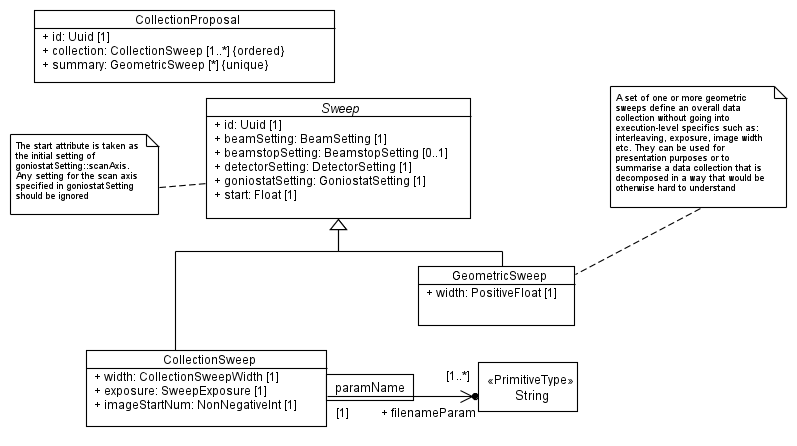
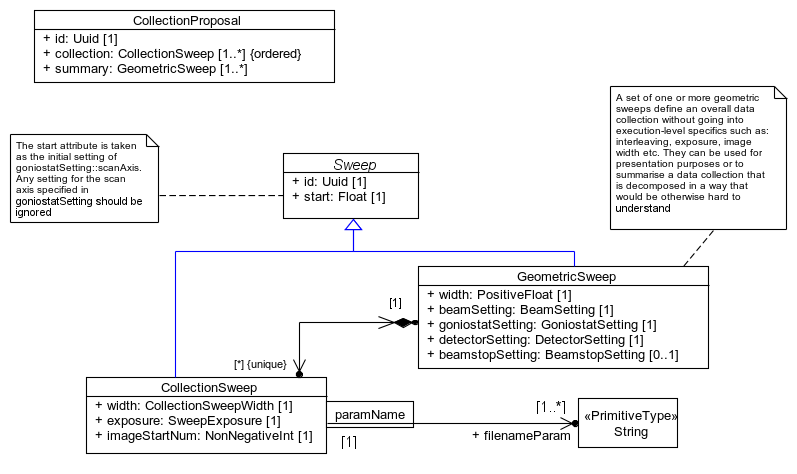
Normalise instrument settings in GeometricSweep
- CollectionSweep now does not contain the instrumental settings, but
refers to the geometric sweep that provides them instead
 - CollectionProposal::summary is no longer optional

diff --git a/com.globalphasing.sdcp.abstract_beamline/src/co/gphl/beamline/v2_unstable/data_collection/GeometricSweep.java b/com.globalphasing.sdcp.abstract_beamline/src/co/gphl/beamline/v2_unstable/data_collection/GeometricSweep.java
@@ -12,8 +12,21 @@
  */
 package co.gphl.beamline.v2_unstable.data_collection;
 
+import java.util.Set;
+
+import co.gphl.beamline.v2_unstable.instrumentation.BeamSetting;
+import co.gphl.beamline.v2_unstable.instrumentation.BeamstopSetting;
+import co.gphl.beamline.v2_unstable.instrumentation.DetectorSetting;
+import co.gphl.beamline.v2_unstable.instrumentation.GoniostatSetting;
+
 public interface GeometricSweep extends Sweep {
     
+    GoniostatSetting getGoniostatSetting();
+    DetectorSetting getDetectorSetting();
+    BeamSetting getBeamSetting();
+    BeamstopSetting getBeamstopSetting();
+    String getScanAxis();
     double getWidth();
+    Set<CollectionSweep> getCollectionSweeps();
     
 }

diff --git a/com.globalphasing.sdcp.abstract_beamline/src/co/gphl/beamline/v2_unstable/data_collection/Sweep.java b/com.globalphasing.sdcp.abstract_beamline/src/co/gphl/beamline/v2_unstable/data_collection/Sweep.java
@@ -14,19 +14,9 @@ package co.gphl.beamline.v2_unstable.data_collection;
 
 import java.util.UUID;
 
-import co.gphl.beamline.v2_unstable.instrumentation.BeamSetting;
-import co.gphl.beamline.v2_unstable.instrumentation.BeamstopSetting;
-import co.gphl.beamline.v2_unstable.instrumentation.DetectorSetting;
-import co.gphl.beamline.v2_unstable.instrumentation.GoniostatSetting;
-
 public interface Sweep {
 
     UUID getId();
-    GoniostatSetting getGoniostatSetting();
-    DetectorSetting getDetectorSetting();
-    BeamSetting getBeamSetting();
-    BeamstopSetting getBeamstopSetting();
-    String getScanAxis();
     double getStart();
 
 }

diff --git a/com.globalphasing.sdcp.abstract_beamline/src/co/gphl/beamline/v2_unstable/data_collection/CollectionSweep.java b/com.globalphasing.sdcp.abstract_beamline/src/co/gphl/beamline/v2_unstable/data_collection/CollectionSweep.java
@@ -22,4 +22,5 @@ public interface CollectionSweep extends Sweep, Map<String, String> {
     SweepExposure getExposure();
     int getImageStartNum();
     CollectionSweepWidth getWidth();
+    GeometricSweep getGeometricSweep();    
 }
